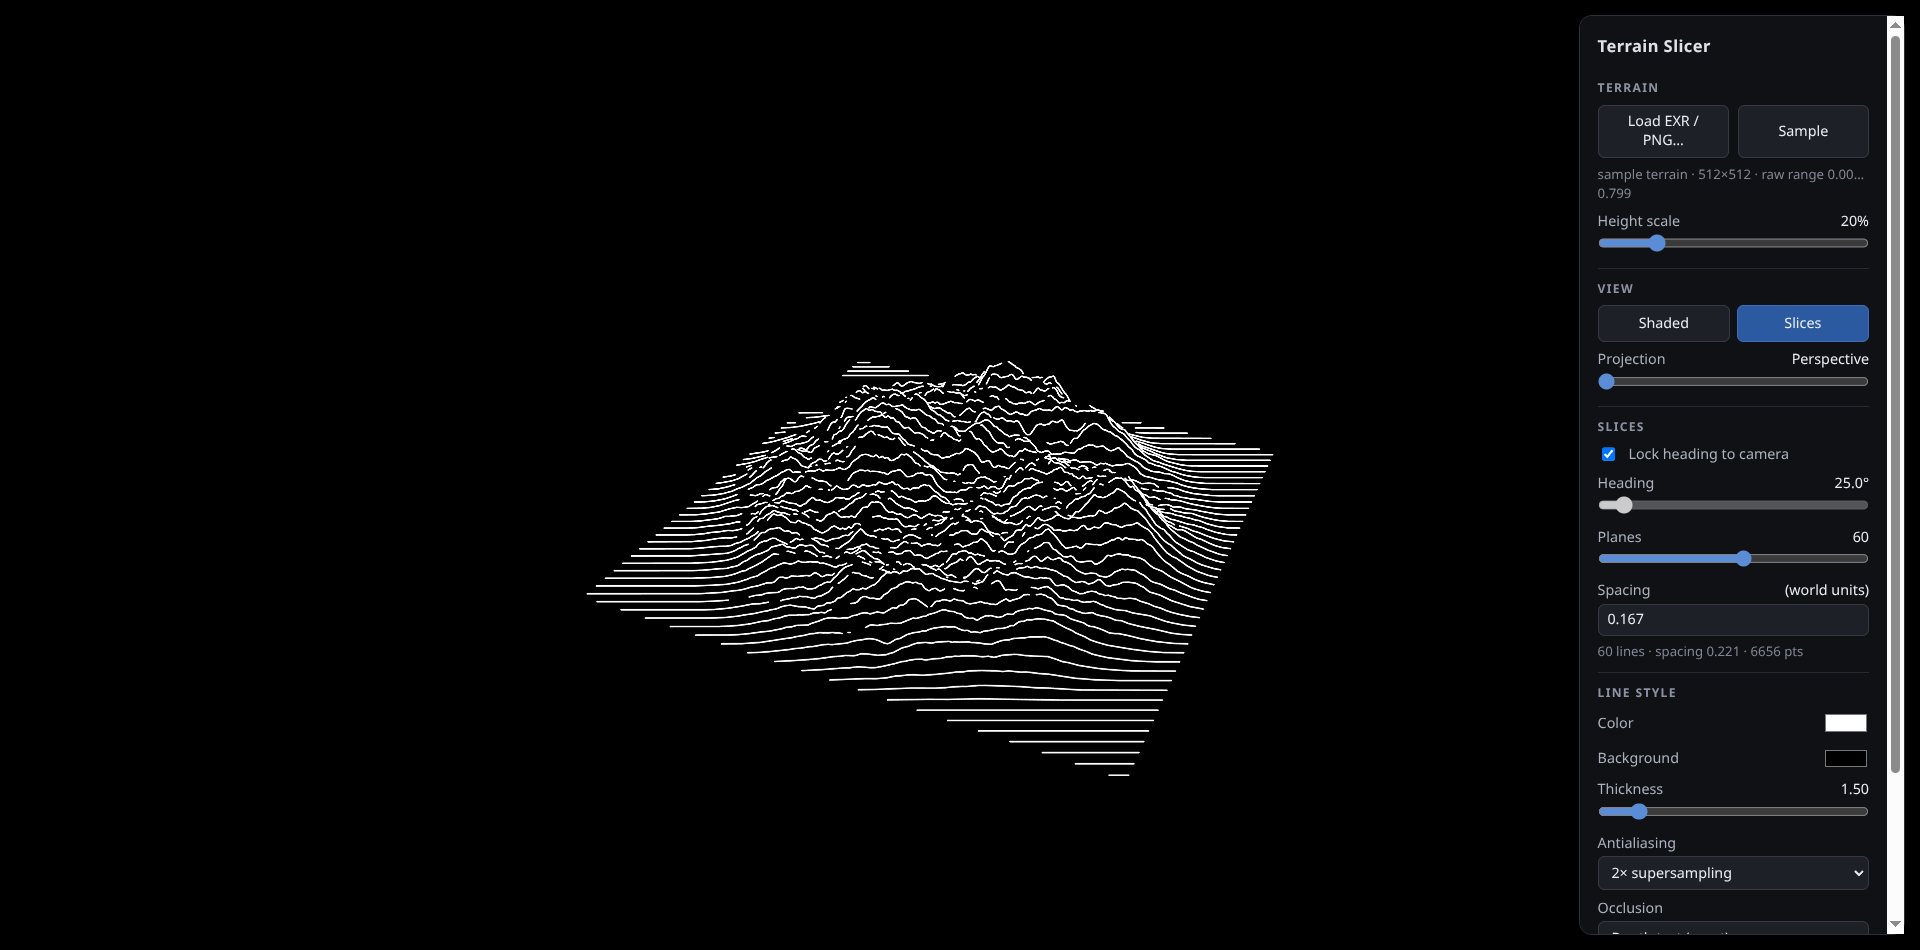
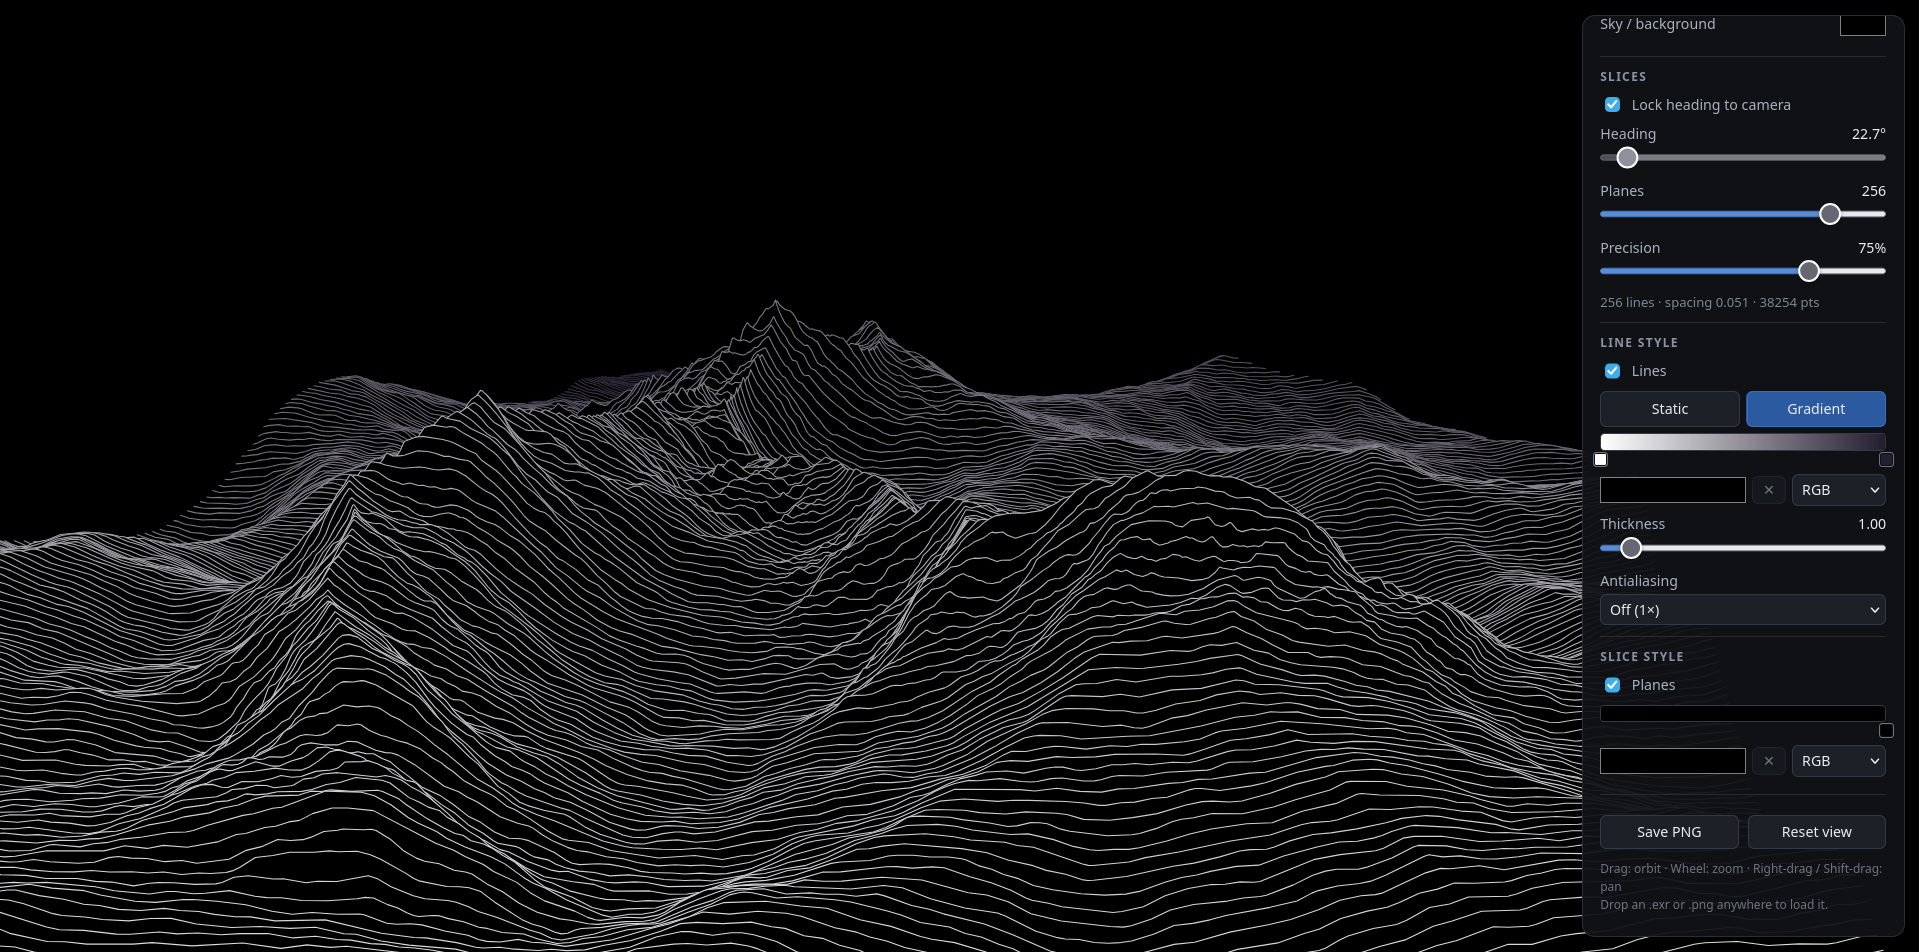
fix rendering again, update preview image

Changed region(s): [[0.0, 0.0, 1.0, 1.0]]

diff --git a/src/slicer.js b/src/slicer.js
@@ -59,6 +59,8 @@ export class SliceRenderer {
     this._sx = new Float32Array(0);
     this._sy = new Float32Array(0);
     this._sv = new Uint8Array(0);
+    this._gx = new Float32Array(0);
+    this._gy = new Float32Array(0);
     this._order = new Int32Array(0);
     this._dists = new Float32Array(0);  // camera-plane distance per slice
     this._sliceColors = [];             // css color per slice index
@@ -135,6 +137,8 @@ export class SliceRenderer {
     this._sx = grow(this._sx, maxPts);
     this._sy = grow(this._sy, maxPts);
     this._sv = grow(this._sv, maxPts);
+    this._gx = grow(this._gx, maxPts);
+    this._gy = grow(this._gy, maxPts);
 
     const pts = this.pts;
     const invGx = (gw - 1) / sx, invGz = (gh - 1) / sz;
@@ -252,12 +256,12 @@ export class SliceRenderer {
 
     const hs = terrain.heightScale;
     const pts = this.pts, sxr = this._sx, syr = this._sy, svr = this._sv;
+    const gxr = this._gx, gyr = this._gy;
     const m0 = e[0], m4 = e[4], m8 = e[8], m12 = e[12];
     const m1 = e[1], m5 = e[5], m9 = e[9], m13 = e[13];
     const m2 = e[2], m6 = e[6], m10 = e[10], m14 = e[14];
     const m3 = e[3], m7 = e[7], m11 = e[11], m15 = e[15];
     const pad = 64;
-    const yBottom = h + 64;
 
     const lineCols = this.sliceColorsRgb(camera, this.lineColorMode === 'gradient', this.linePalette);
     const fillCols = this.sliceColorsRgb(camera, true, this.curtainPalette);
@@ -273,23 +277,33 @@ export class SliceRenderer {
       for (let k = 0; k < n; k++) {
         const pi = (s0 + k) * 3;
         const x = pts[pi], y = pts[pi + 1] * hs, z = pts[pi + 2];
-        const vz = vz2 * x + vz6 * y + vz10 * z + vz14;
-        const cw = m3 * x + m7 * y + m11 * z + m15;
-        let ok = vz < -near && cw > 1e-9;
-        let px = 0, py = 0;
+        // project the curve point and its ground projection (y = 0): the fill
+        // polygon is the true projected curtain between the two
+        const vzC = vz2 * x + vz6 * y + vz10 * z + vz14;
+        const cwC = m3 * x + m7 * y + m11 * z + m15;
+        const vzG = vz2 * x + vz10 * z + vz14;
+        const cwG = m3 * x + m11 * z + m15;
+        let ok = vzC < -near && cwC > 1e-9 && vzG < -near && cwG > 1e-9;
+        let px = 0, py = 0, gx = 0, gy = 0;
         if (ok) {
-          const inv = 1 / cw;
+          const inv = 1 / cwC;
           px = ((m0 * x + m4 * y + m8 * z + m12) * inv * 0.5 + 0.5) * w;
           py = (0.5 - (m1 * x + m5 * y + m9 * z + m13) * inv * 0.5) * h;
-          if (!Number.isFinite(px) || !Number.isFinite(py)) ok = false;
+          const invG = 1 / cwG;
+          gx = ((m0 * x + m8 * z + m12) * invG * 0.5 + 0.5) * w;
+          gy = (0.5 - (m1 * x + m9 * z + m13) * invG * 0.5) * h;
+          if (!Number.isFinite(px) || !Number.isFinite(py) ||
+            !Number.isFinite(gx) || !Number.isFinite(gy)) ok = false;
         }
         sxr[s0 + k] = px; syr[s0 + k] = py; svr[s0 + k] = ok ? 1 : 0;
+        gxr[s0 + k] = gx; gyr[s0 + k] = gy;
         if (!ok) dbg.ptsCulled++;
         else {
           anyProj = true;
           if (px < minx) minx = px;
           if (px > maxx) maxx = px;
           if (py < miny) miny = py;
+          if (gy < miny) miny = gy;
         }
       }
       if (!anyProj) { dbg.noValid++; continue; }
@@ -306,15 +320,19 @@ export class SliceRenderer {
           if (runEnd > runStart) {
             const x0p = sxr[s0 + runStart], y0p = syr[s0 + runStart];
             strokePath.moveTo(x0p, y0p);
-            if (fillPath) fillPath.moveTo(x0p, y0p);
             for (let q = runStart + 1; q <= runEnd; q++) {
               strokePath.lineTo(sxr[s0 + q], syr[s0 + q]);
-              if (fillPath) fillPath.lineTo(sxr[s0 + q], syr[s0 + q]);
             }
             if (fillPath) {
-              // the curtain: from the curve down to the bottom of the frame
-              fillPath.lineTo(sxr[s0 + runEnd], yBottom);
-              fillPath.lineTo(x0p, yBottom);
+              // the curtain: the true projected plane section — the curve
+              // along the top, its ground trace along the bottom
+              fillPath.moveTo(x0p, y0p);
+              for (let q = runStart + 1; q <= runEnd; q++) {
+                fillPath.lineTo(sxr[s0 + q], syr[s0 + q]);
+              }
+              for (let q = runEnd; q >= runStart; q--) {
+                fillPath.lineTo(gxr[s0 + q], gyr[s0 + q]);
+              }
               fillPath.closePath();
             }
           }

diff --git a/src/cameraRig.js b/src/cameraRig.js
@@ -22,7 +22,7 @@ export class CameraRig {
     this.target = new THREE.Vector3(0, 1, 0);
     this.yaw = 25 * DEG;
     this.elevation = 33 * DEG;
-    this.frame = 18;
+    this.frame = 8;
     this.persp = 0;
     this.bounds = { size: WORLD_SIZE, height: 2 };
     this.dirty = true;
@@ -74,7 +74,7 @@ export class CameraRig {
   reset() {
     this.yaw = 25 * DEG;
     this.elevation = 33 * DEG;
-    this.frame = 18;
+    this.frame = 8;
     this.target.set(0, this.bounds.height / 2, 0);
     this.dirty = true;
   }
